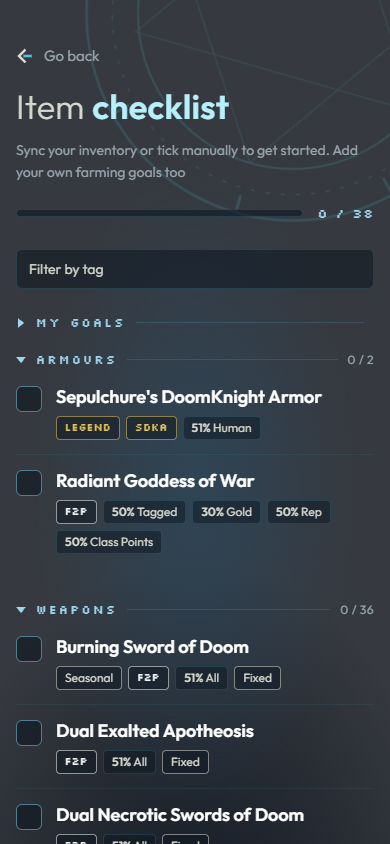
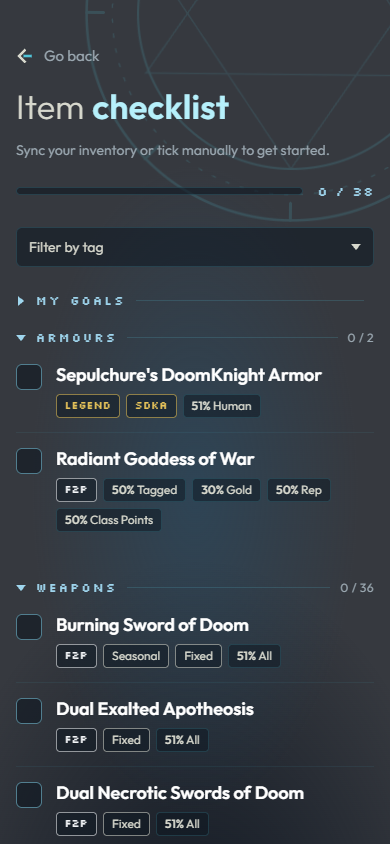
Checklist verify: record latest result; paywall set is seven kinds

diff --git a/docs/ui-reviews/ui-refine-checklist/tasks.md b/docs/ui-reviews/ui-refine-checklist/tasks.md
@@ -41,3 +41,9 @@
 - Fixed after verify: checkbox corners 7px to 6px; unused tokens --c-legend and --c-ioda and their rules removed.
 - Decided: goal progress bar keeps 4px corners (a bar, not a control); sticky sidebar left as is.
 - Not checked at runtime: goal form and goal amount row (no goals in the data, not added).
+
+## Verify result (latest, checklist)
+
+- All seven checks passed at 360, 390, 1099 and 1440px: collapsed filter, goals collapsed, sticky sidebar with Your progress, narrow order, colours, solid bars, corners, no overflow.
+- Paywall gold colour: seven kinds (Legion, Legend, AC, IoDA, SDKA, Heromart, Kickstarter). Heromart and Kickstarter are paywall-linked, so the change text is updated to match the code.
+- Not checked: the goal form and amounts (no goals in the data).
